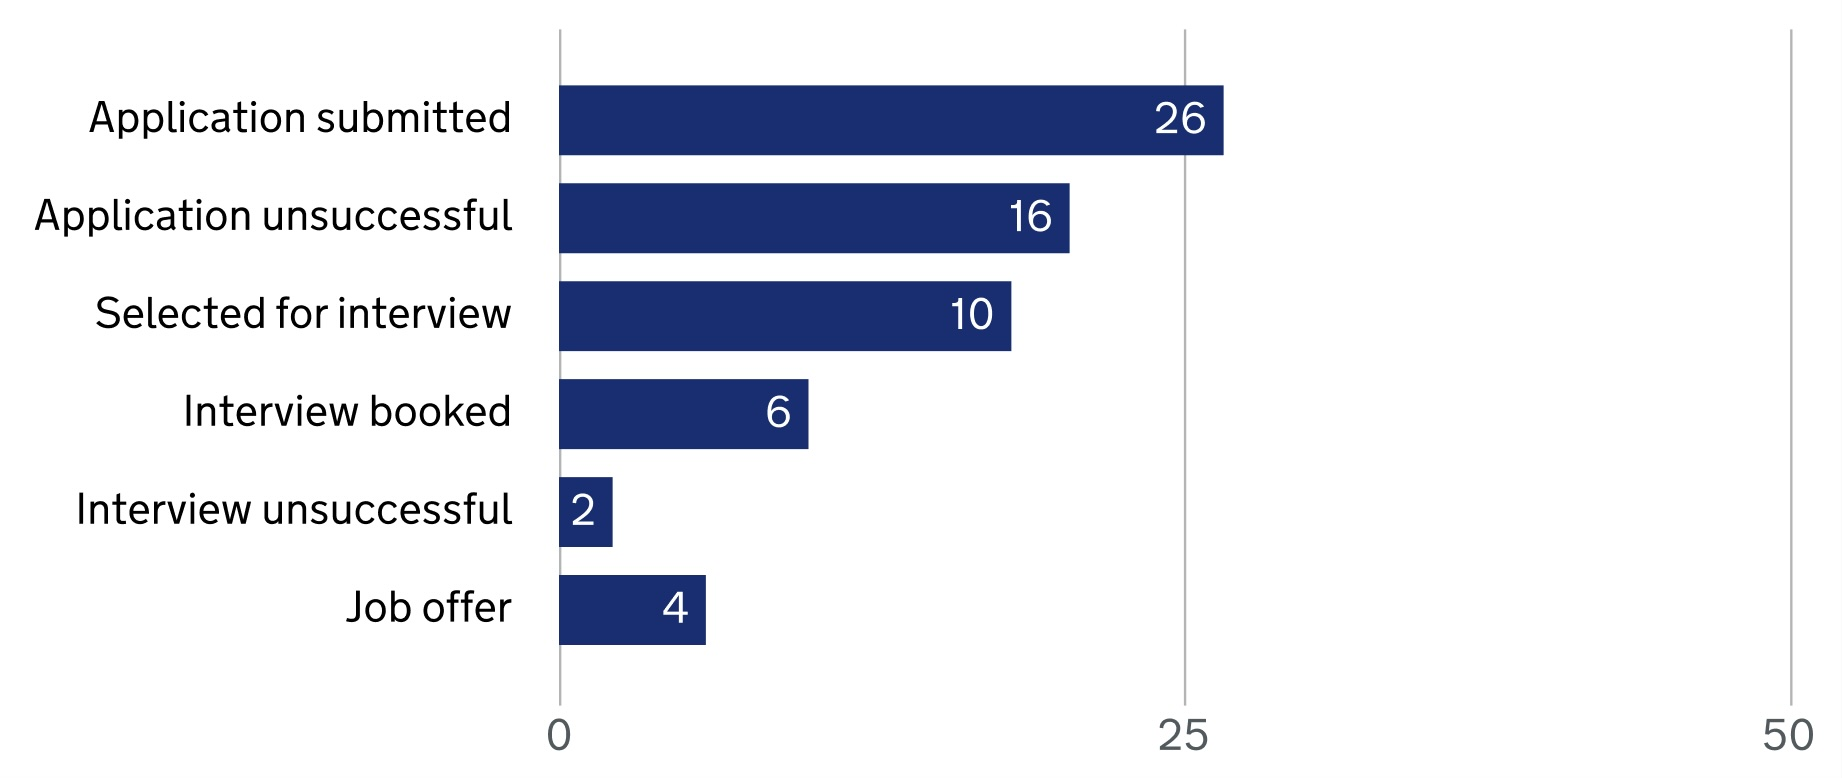
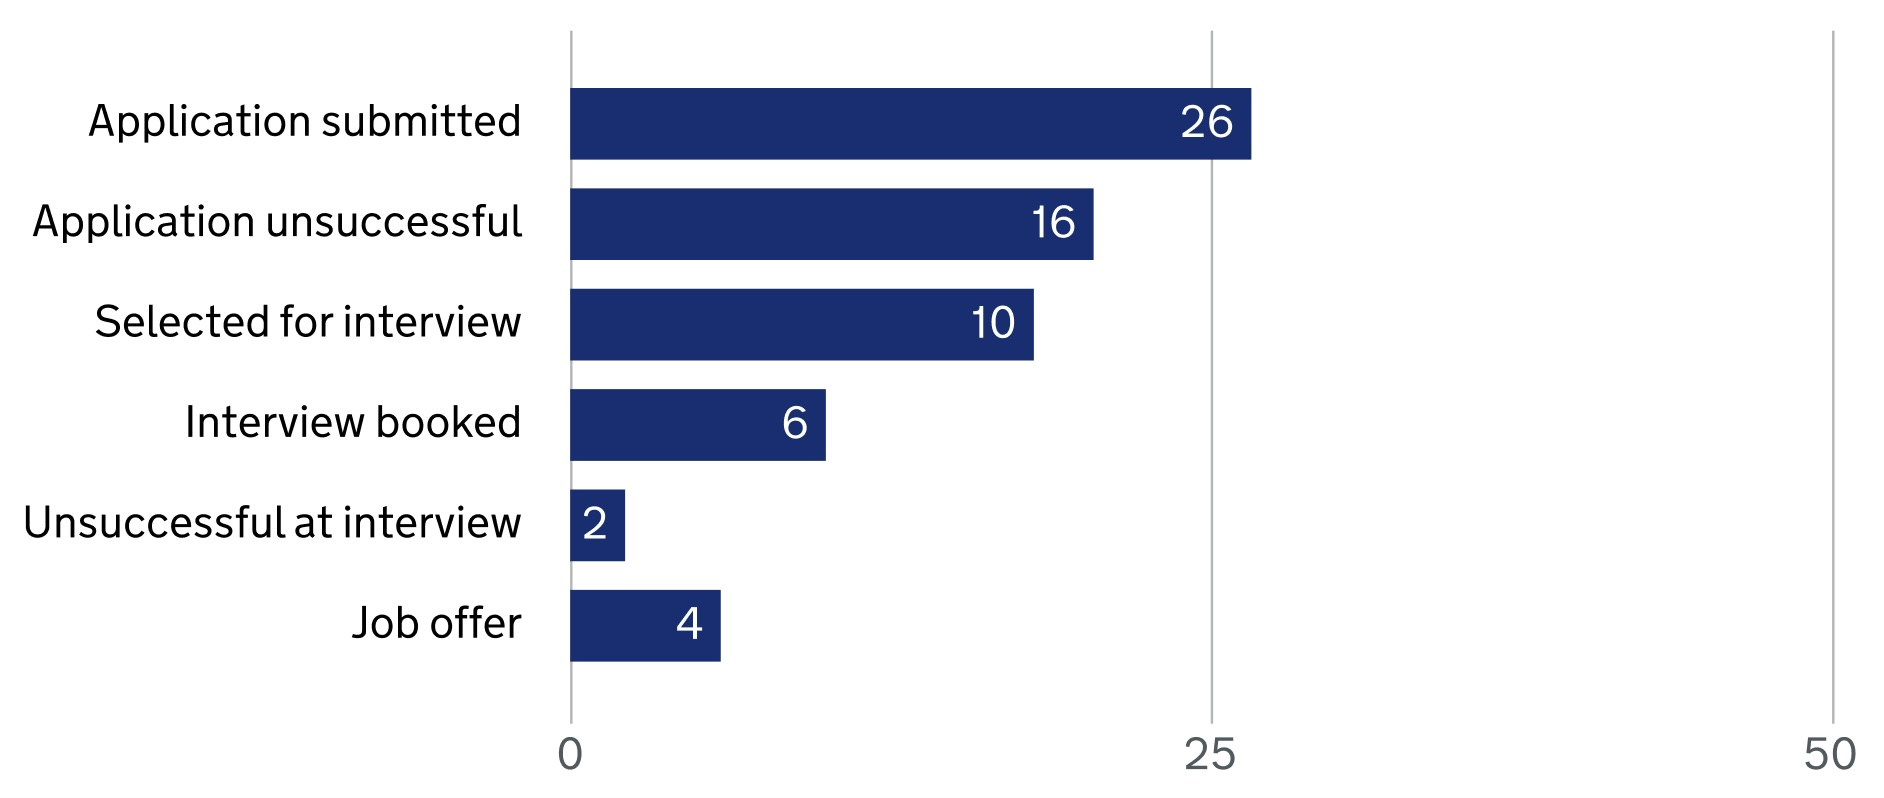
reporting content updates

diff --git a/app/views/v12/reporting-matching.html b/app/views/v12/reporting-matching.html
@@ -205,9 +205,10 @@
 
     <div class="govuk-grid-row">
       <div class="govuk-grid-column-two-thirds">
-        <h3 class="govuk-heading-m govuk-!-margin-bottom-6">
-          Total number of application events, by status
+        <h3 class="govuk-heading-m">
+          Total applications by application stage
         </h3>
+        <p class="govuk-body govuk-!-margin-bottom-6">Shows total number of open applications recorded at each stage of the application process.</p>
 
         <div class="govuk-tabs" data-module="govuk-tabs">
           <h2 class="govuk-tabs__title">
@@ -216,12 +217,12 @@
           <ul class="govuk-tabs__list">
             <li class="govuk-tabs__list-item govuk-tabs__list-item--selected">
               <a class="govuk-tabs__tab" href="#event-chart">
-                Chart view
+                Total applications chart view
               </a>
             </li>
             <li class="govuk-tabs__list-item">
               <a class="govuk-tabs__tab" href="#event-table">
-                Table view
+                Total applications table view
               </a>
             </li>
           </ul>
@@ -257,7 +258,7 @@
                   <td class="govuk-table__cell">6</td>
                 </tr>
                 <tr class="govuk-table__row">
-                  <td class="govuk-table__cell">Interview unsuccessful</td>
+                  <td class="govuk-table__cell">Unsuccessful at interview</td>
                   <td class="govuk-table__cell">2</td>
                 </tr>
                 <tr class="govuk-table__row">
@@ -280,9 +281,11 @@
 
       <div class="govuk-grid-row">
         <div class="govuk-grid-column-two-thirds">
-          <h3 class="govuk-heading-m govuk-!-margin-bottom-6">
-            Latest status of applications within the reporting period
+          <h3 class="govuk-heading-m">
+            Latest recorded application status
           </h3>
+          <p class="govuk-body govuk-!-margin-bottom-6">Shows latest recorded status for each open application in the reporting period.</p>
+
 
           <div class="govuk-tabs" data-module="govuk-tabs">
             <h2 class="govuk-tabs__title">
@@ -291,12 +294,12 @@
             <ul class="govuk-tabs__list">
               <li class="govuk-tabs__list-item govuk-tabs__list-item--selected">
                 <a class="govuk-tabs__tab" href="#latest-chart">
-                  Chart view
+                  Latest application status chart view
                 </a>
               </li>
               <li class="govuk-tabs__list-item">
                 <a class="govuk-tabs__tab" href="#latest-table">
-                  Table view
+                  Latest application status table view
                 </a>
               </li>
             </ul>
@@ -332,7 +335,7 @@
                     <td class="govuk-table__cell">0</td>
                   </tr>
                   <tr class="govuk-table__row">
-                    <td class="govuk-table__cell">Interview unsuccessful</td>
+                    <td class="govuk-table__cell">Unsuccessful at interview</td>
                     <td class="govuk-table__cell">2</td>
                   </tr>
                   <tr class="govuk-table__row">

diff --git a/app/views/v12/reporting-prepare.html b/app/views/v12/reporting-prepare.html
@@ -298,11 +298,11 @@
 
     <div class="govuk-grid-row">
       <div class="govuk-grid-column-two-thirds">
-        <h3 class="govuk-heading-m govuk-!-margin-bottom-6">
+        <h3 class="govuk-heading-m">
           Documentation and support needed
         </h3>
 
-        <p class="govuk-body">Number of prisoners seen with preparing for work needs in this period. </p>
+        <p class="govuk-body govuk-!-margin-bottom-6">Number of prisoners seen with preparing for work needs in this period. </p>
 
         <dl class="govuk-summary-list">
           <div class="govuk-summary-list__row">
